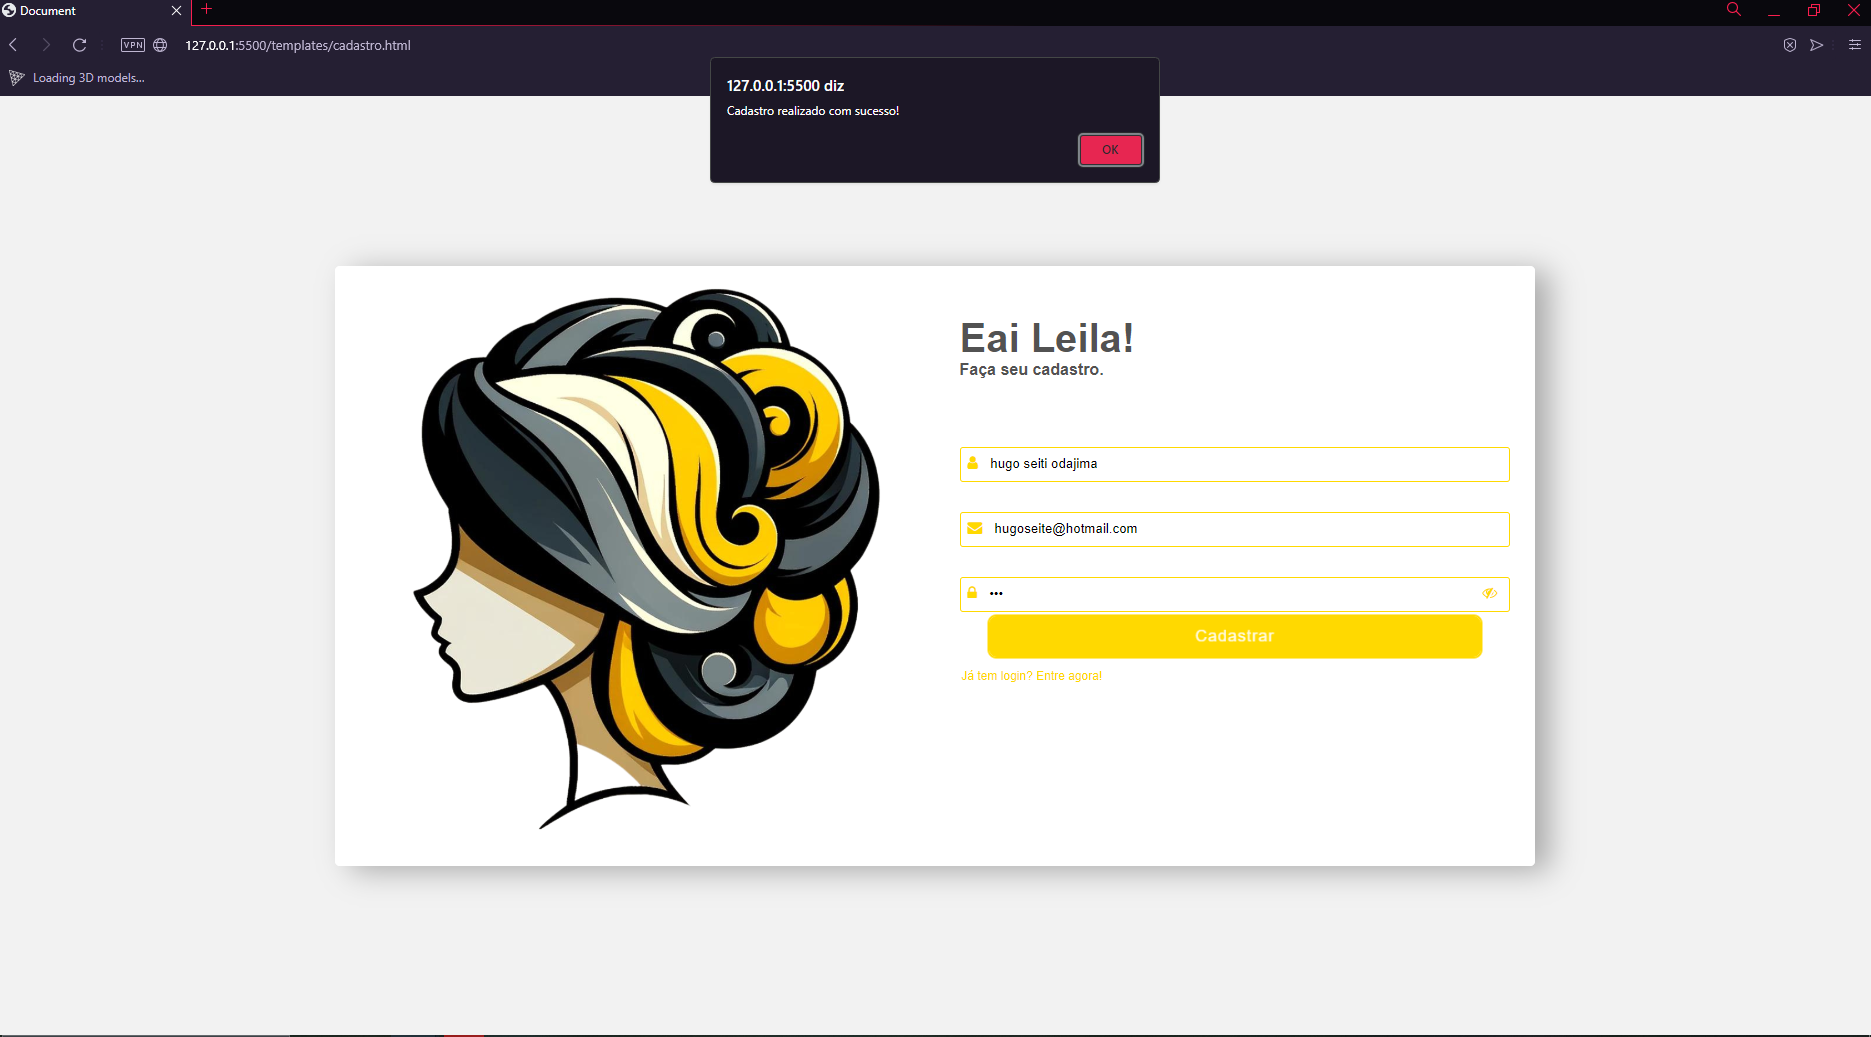
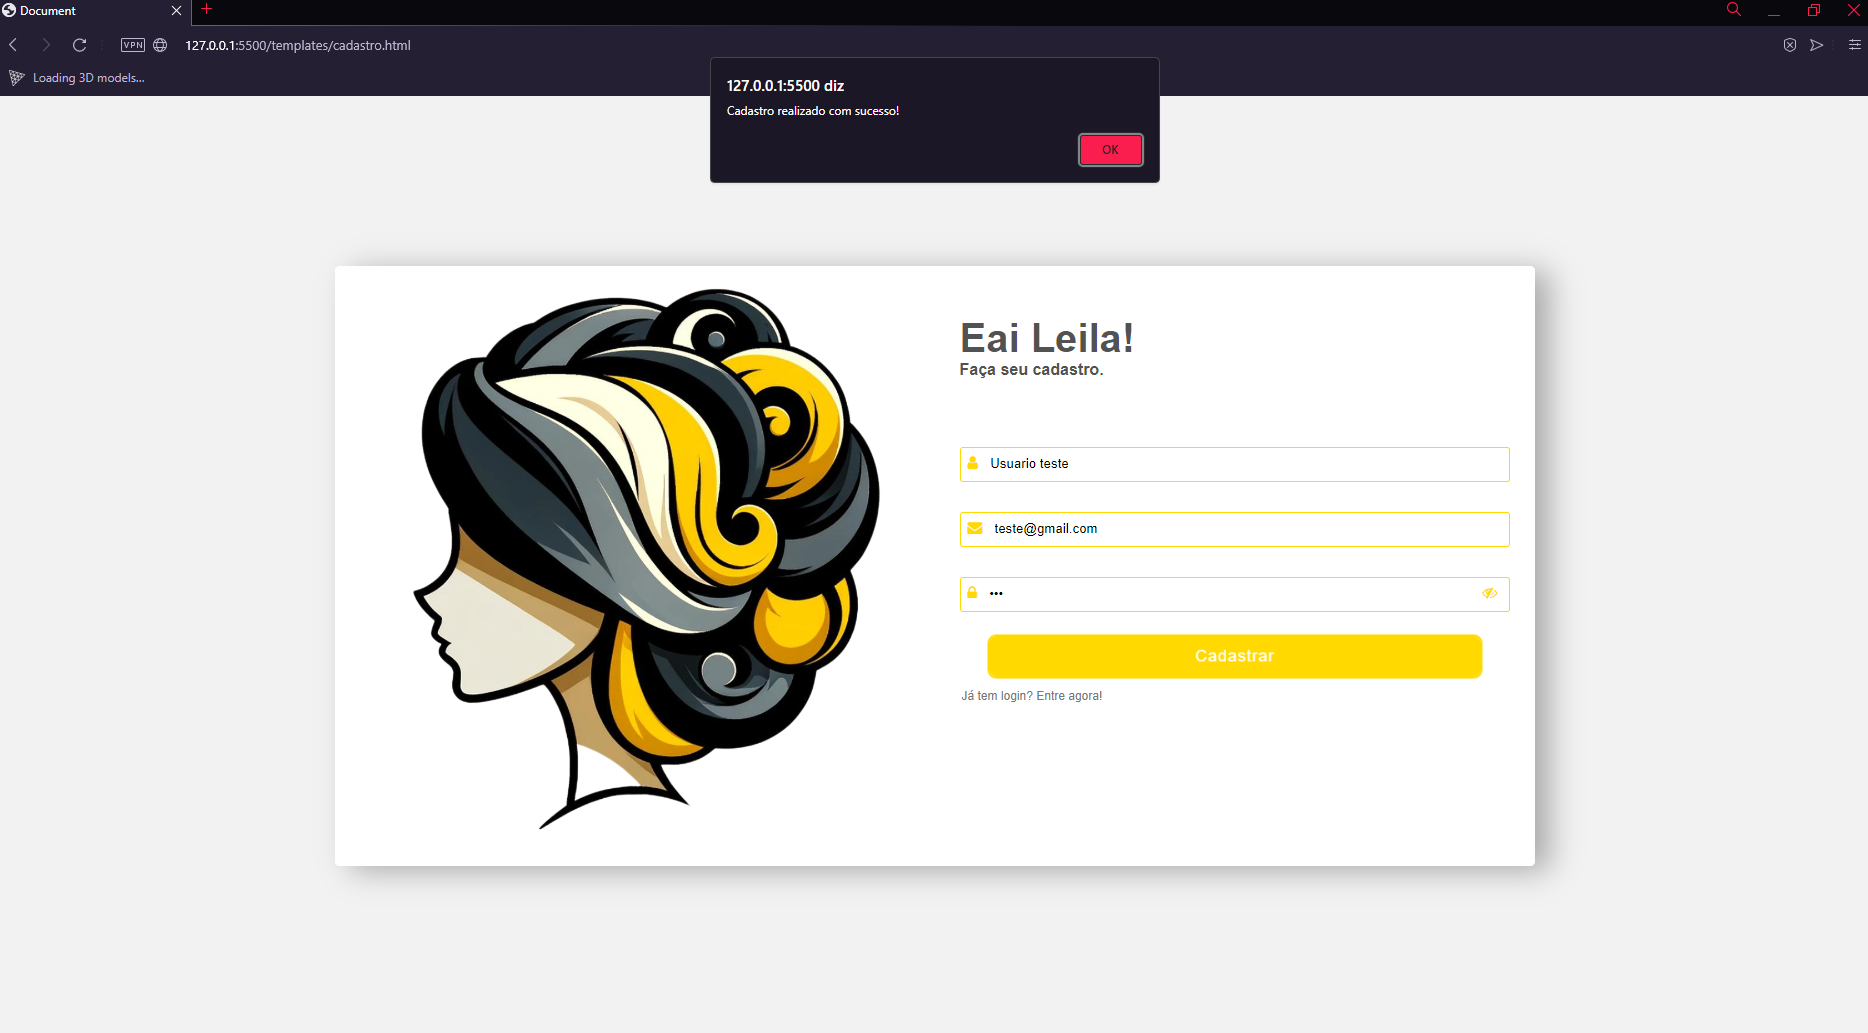
Print das telas

diff --git a/Cabeleleila-app/static/css/login.css b/Cabeleleila-app/static/css/login.css
@@ -134,7 +134,7 @@
 }
 
 .link {
-    color: #ffd900;
+    color: #777;
     text-decoration: none;
 }
 
@@ -155,13 +155,14 @@
     font-size: 18px;
     letter-spacing: 1px;
     text-decoration: none;
-    color: #ffd900;
+    color: #777;
     background: transparent;
     cursor: pointer;
     transition: ease-out 0.5s;
     border: 2px solid #ffd900;
     border-radius: 10px;
     box-shadow: inset 0 0 0 0 #ffd900;
+    margin-top: 20px;
 }
   
 .btn-submit:hover {
